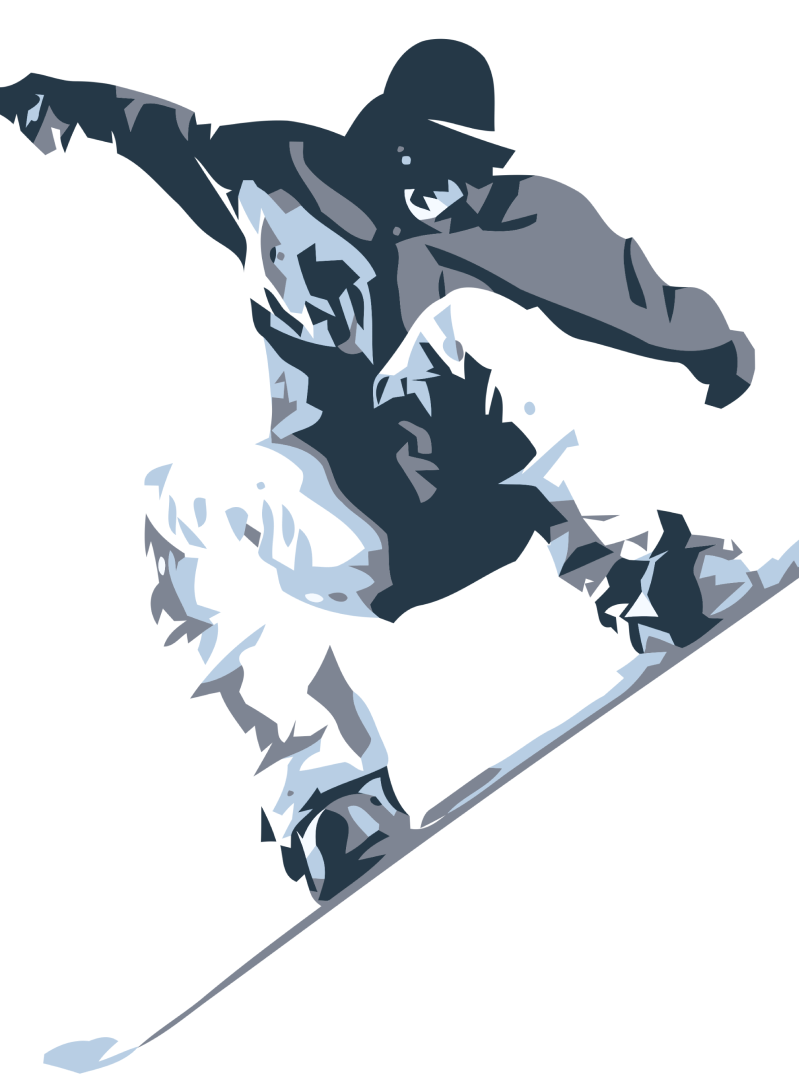
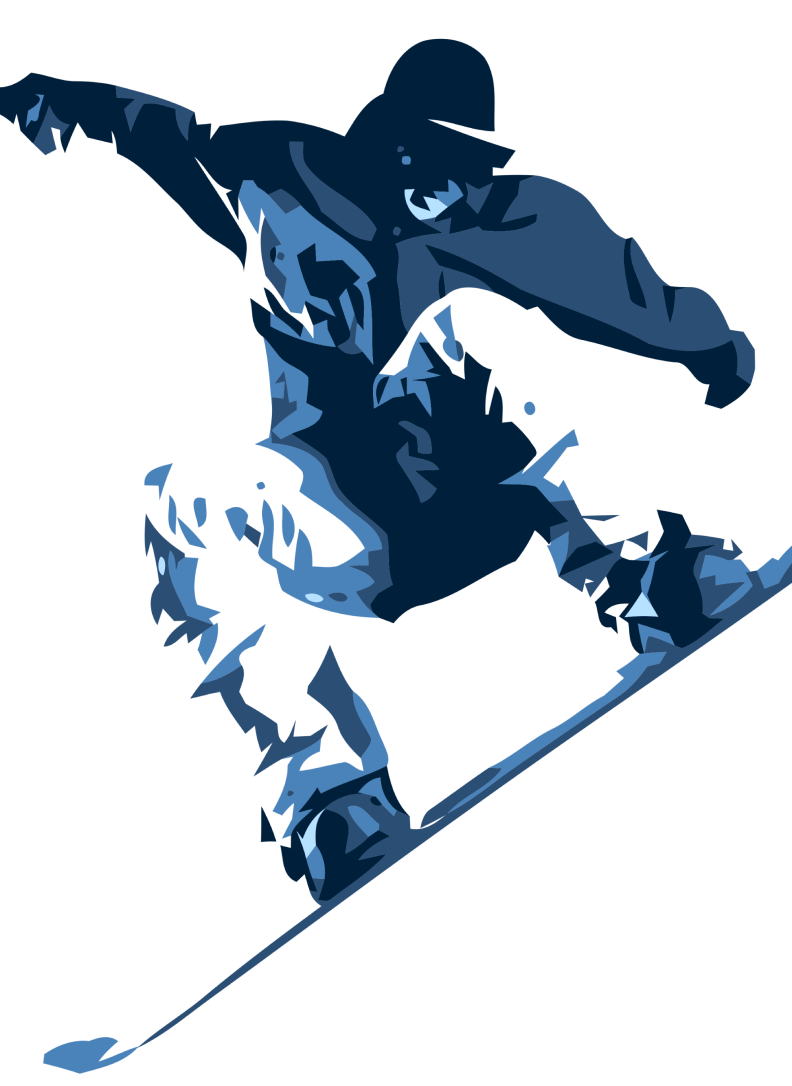
d

diff --git a/public/css/style.css b/public/css/style.css
@@ -194,6 +194,7 @@ body {
 
 .banner_img {
   width: 100%;
+  height:100%;
   -o-object-fit: cover;
      object-fit: cover;
 }
@@ -230,6 +231,22 @@ body {
   .banner_content {
     top: 0px;
     margin-top: 200px;
+  }
+  .banner
+  {
+    display: flex;
+    align-items: center;
+    height:100%;
+    min-height: 100vh;
+  }
+  .banner_img
+  {
+    position: absolute;
+    top:0;
+    left:0;
+  }
+  .banner_content .container{
+    margin-top:40%;
   }
 }
 
@@ -303,6 +320,9 @@ body {
   letter-spacing: 0.05em;
 }
 
+.banner_geo span {
+  color: #000000;
+}
 @media (max-width: 1200px) {
   .banner_geo {
     font-size: 35px;
@@ -313,6 +333,10 @@ body {
 @media (max-width: 560px) {
   .banner_geo {
     font-size: 20px;
+    text-align: center;
+  }
+  .banner_geo span {
+    color: #fefefe;
   }
 }
 
@@ -323,9 +347,6 @@ body {
   }
 }
 
-.banner_geo span {
-  color: #000000;
-}
 
 .banner_title {
   font-family: "Kelson Sans RU";
@@ -389,7 +410,7 @@ body {
   line-height: 22px;
   text-align: left;
   letter-spacing: 0.1em;
-  color: rgba(0, 0, 0, 0.4);
+  color: rgba(0, 0, 0, 1);
   max-width: 369px;
   width: 100%;
 }
@@ -411,11 +432,10 @@ body {
 
 @media (max-width: 414px) {
   .banner_descr {
-    padding-top:15%;
     text-align: center;
     max-width: none;
-    font-size: 14px;
-    line-height: 14px;
+    font-size: 17px;
+    line-height: 20px;
     color:white;
   }
 }
@@ -697,7 +717,7 @@ body {
 }
 
 .hotel_title span {
-  color: #8caac9;
+  color: #3189e4;
 }
 
 .hotel .snow_man {
@@ -746,8 +766,8 @@ body {
   max-width: 140px;
   width: 100%;
   height: 39px;
-  background: -webkit-gradient(linear, left top, right top, from(rgba(185, 185, 185, 0.63)), to(rgba(196, 196, 196, 0)));
-  background: linear-gradient(90deg, rgba(185, 185, 185, 0.63) 0%, rgba(196, 196, 196, 0) 100%);
+  background: -webkit-gradient(linear, left top, right top, from(rgba(49, 137, 228, 0.6)), to(rgba(196, 196, 196, 0)));
+  background: linear-gradient(90deg, rgba(49, 137, 228, 0.6) 0%, rgba(49, 137, 228, 0) 100%);
   position: relative;
   transition: 0.5s;
 }
@@ -894,6 +914,7 @@ body {
     font-size: 25px;
     margin-bottom: 25px;
   }
+
 }
 
 .funny_number {
@@ -989,7 +1010,7 @@ body {
   font-size: 70px;
   line-height: 84px;
   text-transform: uppercase;
-  color: #1d568c;
+  color: #3189e4;
 }
 
 @media (max-width: 1200px) {
@@ -1031,6 +1052,11 @@ body {
 @media (max-width: 768px) {
   .cottage_descr {
     font-size: 19px;
+    color: rgba(0, 0, 0, 1);
+  }
+  .cottage_descr br
+  {
+    display:none;
   }
 }
 
@@ -1197,7 +1223,7 @@ body {
   font-size: 35px;
   line-height: 42px;
   text-transform: uppercase;
-  color: #1d568c;
+  color: #3189E4;
 }
 
 @media (max-width: 992px) {
@@ -1308,7 +1334,7 @@ body {
 }
 .cottage_link:hover
 {
-  color:#1d568c;
+  color:#3189E4;
   text-decoration: none;
 }
 
@@ -1324,7 +1350,7 @@ body {
   font-size: 70px;
   line-height: 100%;
   text-transform: uppercase;
-  color: #1d568c;
+  color: #3189E4;
   padding: 175px 0px 93px 13px;
 }
 

diff --git a/resources/views/welcome.blade.php b/resources/views/welcome.blade.php
@@ -8,7 +8,7 @@
                     <div class=" col-md-8">
                         <div class="header_logo">
                             {{--<a href="#">ski paradise</a>--}}
-                            <img class="logo" src="{{ asset('images/footer_pic.png') }}" alt="">
+                            <img class="logo d-lg-block d-none" src="{{ asset('images/footer_pic.png') }}" alt="">
                         </div>
                     </div>
                     <div class="col-4 d-none d-lg-block">
@@ -47,18 +47,26 @@
             </div>
         </header>
         <div class="banner">
-            <img class="banner_img" src="{{ asset('images/malte-schmidt-5oh_gv07cBY-unsplash%201.jpg') }}" alt="">
+            <img class="banner_img d-lg-block d-none" src="{{ asset('images/mainbg.png') }}" alt="">
+            <img class="banner_img d-lg-none d-block" src="{{ asset('images/mobilebg.png') }}" alt="">
             <div class="banner_content">
                 <div class="container">
                     <div class="banner_content-inner">
-                        <div class="banner_content-inner_line">
-                            <div class="banner_geo" data-aos="fade-left" data-aos-duration="700" data-aos-delay="200">
+                        <div class="banner_content-inner_line text-sm-center">
+                            <img class="w-25 d-lg-none d-block mx-auto pb-4" src="{{ asset('images/footer_pic.png') }}" alt="">
+                            <div class="banner_geo d-lg-block d-none" data-aos="fade-left" data-aos-duration="700" data-aos-delay="200">
                                 kara<span>kol</span>
+                            </div>
+                            <div class="banner_karakol text-white text-center d-lg-none d-block" style="font-size: 20px;font-family: 'Raleway'; font-weight: 600; text-transform: uppercase;" data-aos="fade-left" data-aos-duration="700" data-aos-delay="200">
+                                karakol
                             </div>
                             <h1 class="banner_title" data-aos="fade-up" data-aos-duration="700" data-aos-delay="200">
                                 <span>SKI </span>PARADISE
                             </h1>
-                            <p class="banner_descr">Свежий воздух, хвойный лес и белоснежные горные вершины подарят незабываемый отдых любителям спокойного досуга, а также ценителям активного времяпровождения.
+                            <div class="text-center d-lg-none d-block">
+                            <img src="{{ asset('images/eaft.png') }}" alt="">
+                            </div>
+                                <p class="banner_descr">Свежий воздух, хвойный лес и белоснежные горные вершины подарят незабываемый отдых любителям спокойного досуга, а также ценителям активного времяпровождения.
                             </p>
                         </div>
                     </div>
@@ -119,7 +127,7 @@
                 <div class="container">
                     <div class="row">
                         <div class="col-4 ">
-                            <div class="funny_title">с нами вам будет весело и уютно</div>
+                            <div class="funny_title">с нами вам будет <span>весело</span> и <span>уютно</span></div>
                         </div>
                         <div class="col-8 ">
                             <div class="row">
